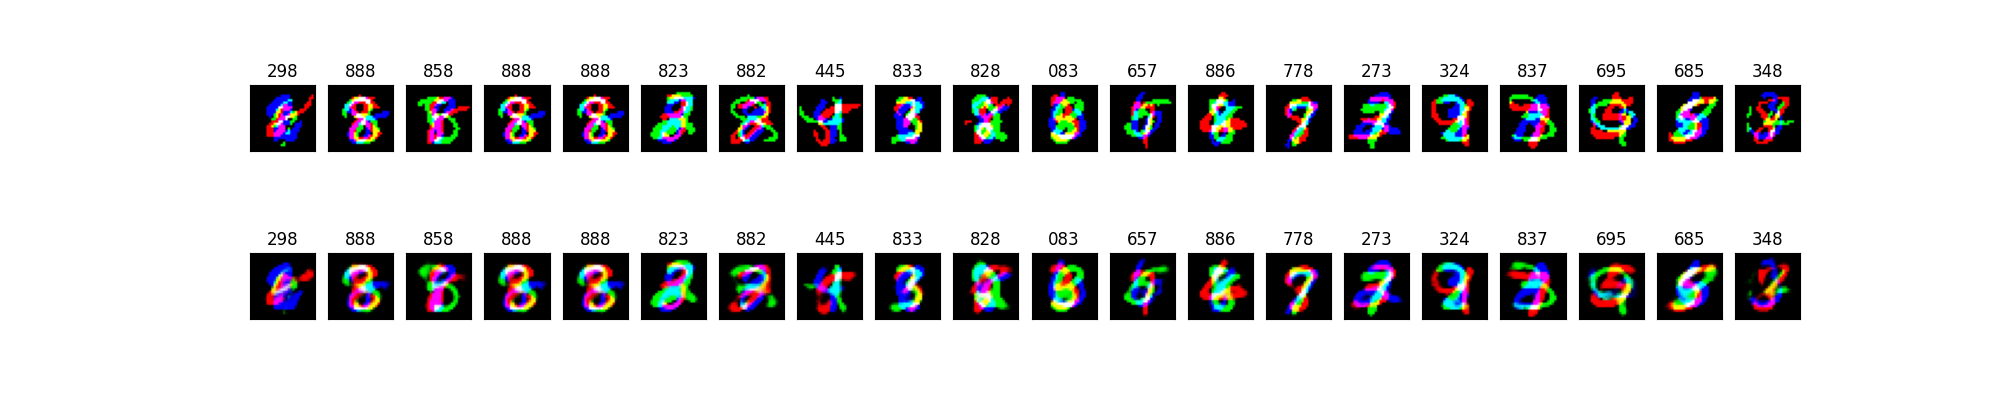
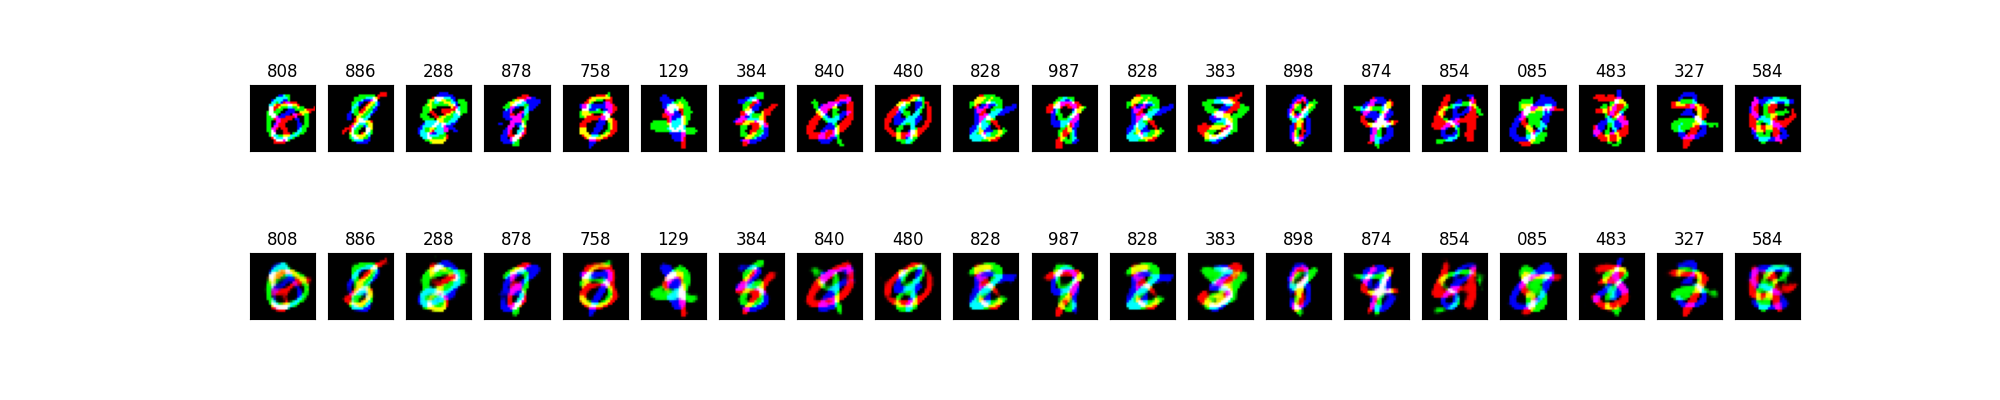
Finished project 2

diff --git a/Project 2/autoencoder.py b/Project 2/autoencoder.py
@@ -3,7 +3,7 @@ os.environ['TF_CPP_MIN_LOG_LEVEL'] = '3'
 import tensorflow as tf
 import numpy as np
 import matplotlib.pyplot as plt
-from typing import Any
+from typing import Any, Tuple
 from stacked_mnist import StackedMNISTData, DataMode
 from verification_net import VerificationNet
 from ae_model import AutoEncoderModel
@@ -115,44 +115,63 @@ class AutoEncoder:
         print(f"Predictability: {100*pred:.2f}%")
         print(f"Accuracy: {100 * acc:.2f}%")
 
-    def create_distribution(self) -> np.ndarray:
+    def create_distribution(self) -> Tuple[np.ndarray, np.ndarray]:
+        """This method calculates the mean and standard deviation for each of the 
+        32 outputs of the encoder. In other words, the encoder has a latent dim of
+        32. For each of these 32 elements, this method calculates the individual mean
+        and standard deviation by running the training and testing data through
+        the encoder. Thus when generating random samples, the values are extracted
+        by randomly getting each value individually by their respective mean/stddev values.
+
+        Raises:
+            ValueError: Error to be thrown if model is not yet trained
+
+        Returns:
+            Tuple[np.ndarray, np.ndarray]: Arrays containing the mean and stddev for the 32 latent values
+        """
         if not self.done_training:
             # Model is not trained yet...
             raise ValueError("Model is not trained; cannot generate")
         training_data, _ = self.generator.get_full_data_set(training=True)
-        # For now: only 1 channel
+        testing_data, _ = self.generator.get_full_data_set(training=False)
         encoder_output_elements = self.model.encoder.layers[-1].output_shape[-1]
-        encoder_output_shape = (
+        training_encoder_output_shape = (
             training_data.shape[0], encoder_output_elements)
+        testing_encoder_output_shape = (
+            testing_data.shape[0], encoder_output_elements)
         no_channels = training_data.shape[-1]
-        encoded_predictions = np.zeros(shape=encoder_output_shape)
+        encoded_predictions = np.zeros(shape=training_encoder_output_shape)
+        testing_encoded = np.zeros(shape=testing_encoder_output_shape)
         for channel in range(no_channels):
-            encoded = self.model.encoder.predict(
-                training_data[:, :, :, [channel]]) * 1/no_channels
-            encoded_predictions += encoded
-        # Take the mean of all the encoder predictions for use in the sampling
-        # I.e. we now have the average value of all encodings of all inputs, and we will use this
-        # as a basis for drawing random samples for Z
-        distribution = np.mean(encoded_predictions, axis=0)
-        return distribution
+            encoded_training = self.model.encoder.predict(
+                training_data[:, :, :, [channel]])
+            encoded_predictions += encoded_training
+            encoded_testing = self.model.encoder.predict(testing_data[:,:,:,[channel]])
+            testing_encoded += encoded_testing
+        # Calculate the mean and standard deviation
+        mu = np.mean(encoded_predictions, axis=0)
+        deviation_1 = testing_encoded - mu
+        deviation_2 = abs(deviation_1)**2
+        deviation_sum = np.sum(deviation_2, axis=0)
+        stddev = np.sqrt(deviation_sum / training_data.shape[0])
+        return mu, stddev
 
-    def generate(self) -> None:
+    def generate(self, filename) -> None:
         if not self.done_training:
             # Model is not trained yet...
             raise ValueError("Model is not trained; cannot generate")
-        n = 10
-        distribution = self.create_distribution()
+        n = 100
+        mu, stddev = self.create_distribution()
         training_data, _ = self.generator.get_full_data_set()
         no_channels = training_data.shape[-1]
         random_data = []
         for _ in range(n):
             random_sample = []
-            for j in range(len(distribution)):
+            for j in range(mu.shape[0]):
                 colors = []
                 for _ in range(no_channels):
-                    # Create a random value that is based on the mean, where you either subtract or add a chunk of the original value
-                    random_value = distribution[j] + np.random.choice(
-                        [-1, 1], p=[0.5, 0.5]) * np.random.uniform(low=0.3, high=.4)
+                    # Add a random value based on mean and standard deviation of the output of the model
+                    random_value = np.random.normal(loc=mu[j], scale=stddev[j]) / no_channels
                     colors.append(random_value)
                 random_sample.append(colors)
             random_data.append(random_sample)
@@ -162,14 +181,7 @@ class AutoEncoder:
             decoder_input = random_data[:, :, channel]
             output = self.model.decoder.predict(decoder_input)
             decoded_imgs[:, :, :, channel] += output[:, :, :, 0]
-        plt.figure(figsize=(20, 4))
-        for i in range(1, n + 1):
-            ax = plt.subplot(2, n, i)
-            plt.imshow(decoded_imgs[i-1])
-            plt.gray()
-            ax.get_xaxis().set_visible(False)
-            ax.get_yaxis().set_visible(False)
-        plt.show()
+        visualize_pictures(x=decoded_imgs, filename=filename)
 
     def anomaly_detection(self, filename: str) -> None:
         if not self.done_training:
@@ -225,7 +237,7 @@ def showcase_mono() -> None:
     print(f"\nCalculating accuracy..\n")
     ae.test_accuracy(verifier=verifier, tolerance=0.8)
     print(f"\nGenerating images..\n")
-    ae.generate()
+    ae.generate(filename='./figures/ae_mono_generation.png')
 
 def showcase_colour() -> None:
     print(f"\n======== SHOWCASING COLOUR IMAGES ========\n")
@@ -242,7 +254,7 @@ def showcase_colour() -> None:
     print(f"\nCalculating accuracy..\n")
     ae.test_accuracy(verifier=verifier, tolerance=0.5)
     print(f"\nGenerating images..\n")
-    ae.generate()
+    ae.generate(filename='./figures/ae_colour_generation.png')
 
 def showcase_anomalies() -> None:
     print(f"\n======== SHOWCASING ANOMALY DETECTION ========\n")

diff --git a/Project 2/variational_autoencoder.py b/Project 2/variational_autoencoder.py
@@ -101,7 +101,7 @@ class VAE:
         print(f"Predictability: {100*pred:.2f}%")
         print(f"Accuracy: {100 * acc:.2f}%")
     
-    def generate(self) -> None:
+    def generate(self, filename: str) -> None:
         if not self.done_training:
             # Model is not trained yet...
             raise ValueError("Model is not trained; cannot generate")
@@ -114,14 +114,7 @@ class VAE:
             decoder_input = random_data[:, :, channel]
             output = self.model.decoder.predict(decoder_input)
             decoded_imgs[:, :, :, channel] += output[:, :, :, 0]
-        plt.figure(figsize=(20, 4))
-        for i in range(1, n + 1):
-            ax = plt.subplot(2, n, i)
-            plt.imshow(decoded_imgs[i-1])
-            plt.gray()
-            ax.get_xaxis().set_visible(False)
-            ax.get_yaxis().set_visible(False)
-        plt.show()
+        visualize_pictures(x=decoded_imgs, filename=filename)
 
     def anomaly_detection(self, filename: str) -> None:
         if not self.done_training:
@@ -157,9 +150,6 @@ class VAE:
                 # Reshaped (repeated) into (n_testing_examples)x28x28x1
                 image_repeated = np.repeat(image.reshape(-1, *image.shape), n_random_samples, axis=0).astype(float)
                 logpx_z = bce(normal_vector_outputs, image_repeated)
-                # logpx_z = -bce(normal_vector_outputs, image_repeated)
-                # px_z = np.exp(logpx_z)
-                # px = np.mean(px_z)
                 logpx = -tf.reduce_mean(logpx_z, axis=[0,1,2])
                 px = np.exp(logpx)
                 channel_probabilities.append(px)
@@ -211,7 +201,7 @@ def showcase_mono() -> None:
     print(f"\nCalculating accuracy..\n")
     vae.test_accuracy(verifier=verifier, tolerance=0.8)
     print(f"\nGenerating images..\n")
-    vae.generate()
+    vae.generate(filename='./figures/vae_mono_generation.png')
 
 def showcase_colour() -> None:
     print(f"\n======== SHOWCASING COLOUR IMAGES ========\n")
@@ -228,7 +218,7 @@ def showcase_colour() -> None:
     print(f"\nCalculating accuracy..\n")
     vae.test_accuracy(verifier=verifier, tolerance=0.5)
     print(f"\nGenerating images..\n")
-    vae.generate()
+    vae.generate(filename='./figures/vae_colour_generation.png')
 
 def showcase_anomalies() -> None:
     print(f"\n======== SHOWCASING ANOMALY DETECTION ========\n")
@@ -247,6 +237,6 @@ def showcase_anomalies() -> None:
 
 
 if __name__ == "__main__":
-    # showcase_mono()
-    # showcase_colour()
-    showcase_anomalies()
+    showcase_mono()
+    showcase_colour()
+    # showcase_anomalies()

diff --git a/Project 2/utils.py b/Project 2/utils.py
@@ -11,7 +11,7 @@ def pad(label: int, need_padding: bool) -> str:
         label = "0" + label
     return label
 
-def visualize_pictures(x: np.ndarray, y: np.ndarray, decoded_imgs: np.ndarray = None, filename: str=None) -> None:
+def visualize_pictures(x: np.ndarray, y: np.ndarray=None, decoded_imgs: np.ndarray = None, filename: str=None) -> None:
     n = 20
     end = max(0, x.shape[0] - 21)
     if end == 0:
@@ -25,7 +25,8 @@ def visualize_pictures(x: np.ndarray, y: np.ndarray, decoded_imgs: np.ndarray = 
         ax = plt.subplot(2, n, i+1)
         original = x[i + random_start].astype(np.float64)
         plt.imshow(original)
-        plt.title(pad(y[i + random_start], need_padding))
+        if y is not None:
+            plt.title(pad(y[i + random_start], need_padding))
         plt.gray()
         ax.get_xaxis().set_visible(False)
         ax.get_yaxis().set_visible(False)
@@ -35,10 +36,11 @@ def visualize_pictures(x: np.ndarray, y: np.ndarray, decoded_imgs: np.ndarray = 
             ax = plt.subplot(2, n, i + 1 + n)
             copy = decoded_imgs[i + random_start]
             plt.imshow(copy)
-            plt.title(pad(y[i + random_start], need_padding))
+            if y is not None:
+                plt.title(pad(y[i + random_start], need_padding))
             plt.gray()
             ax.get_xaxis().set_visible(False)
             ax.get_yaxis().set_visible(False)
     if filename is not None:
         plt.savefig(filename)
-    #plt.show()
+    plt.show()
